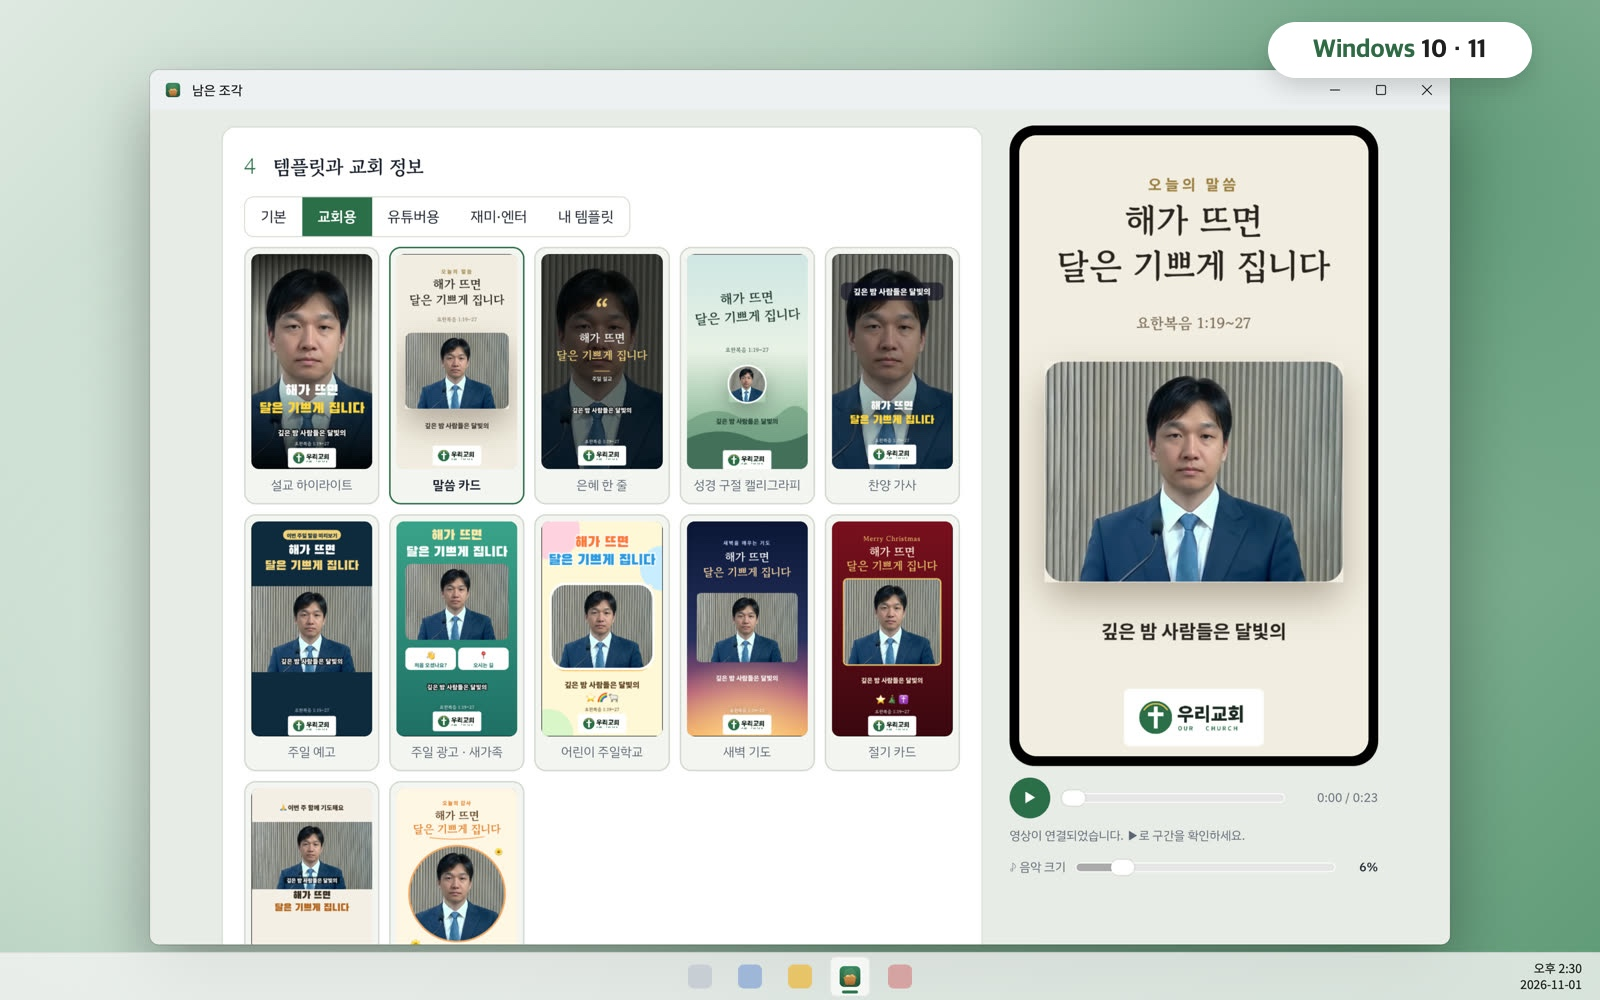
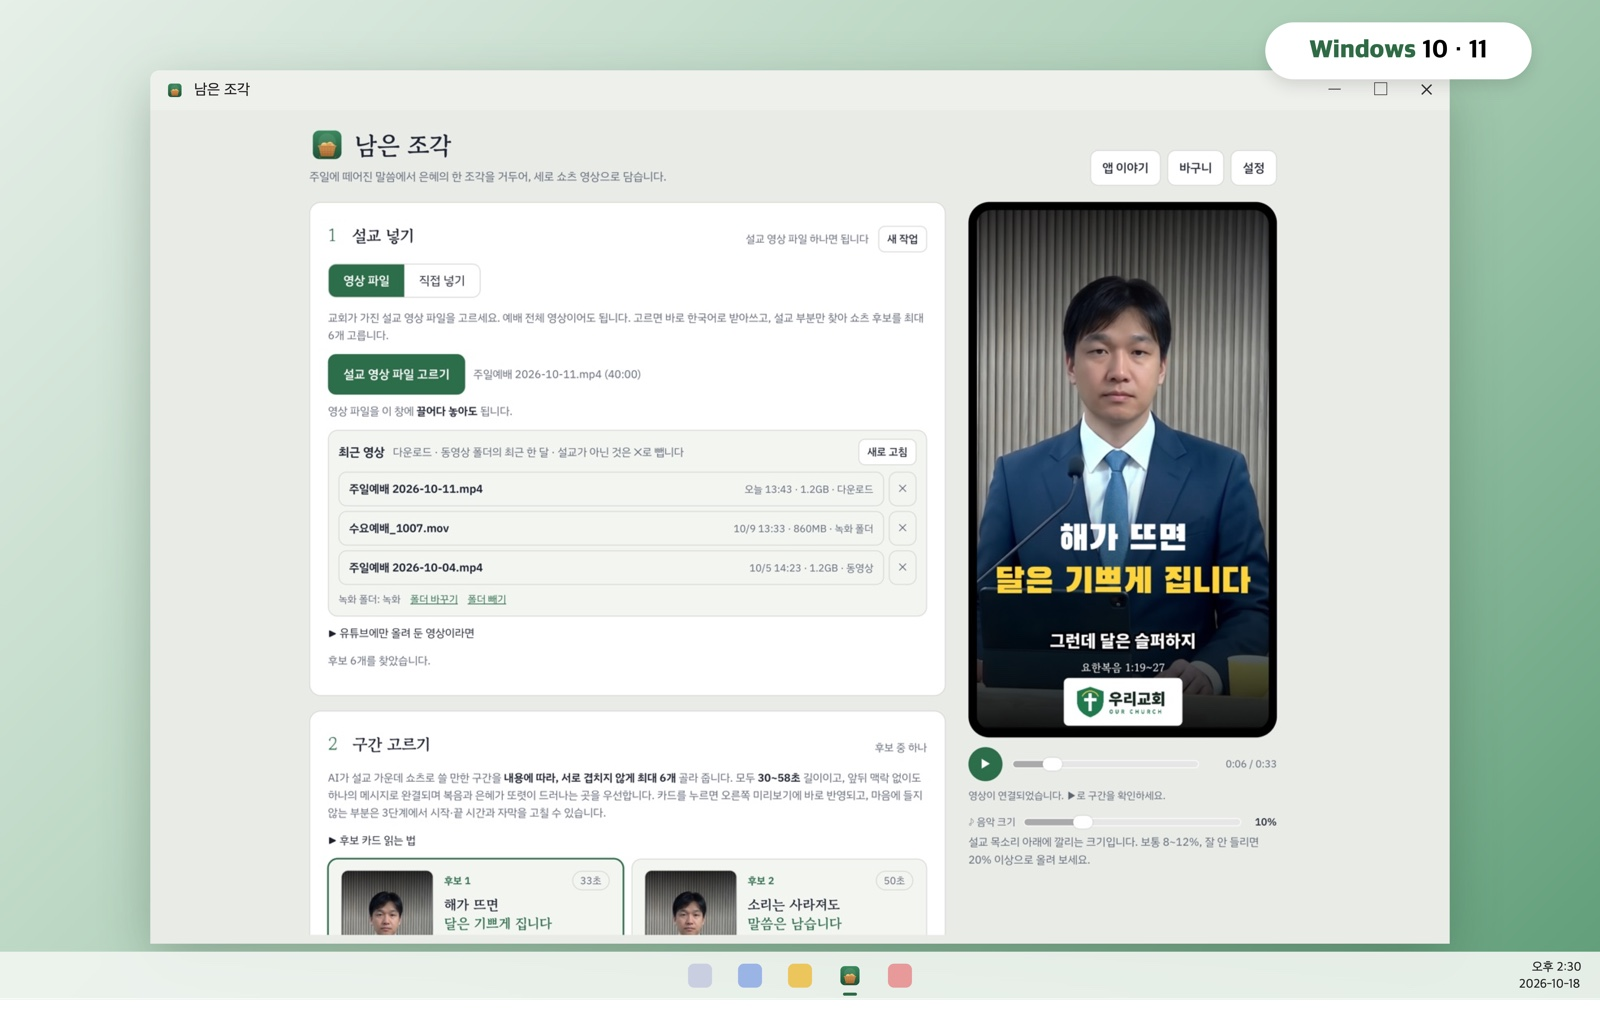
Windows 칸 그림을 지금 화면(영상 파일로 시작)으로

diff --git a/index.html b/index.html
@@ -9,7 +9,7 @@
 <link rel="preconnect" href="https://fonts.googleapis.com"><link rel="preconnect" href="https://fonts.gstatic.com" crossorigin>
 <link href="https://fonts.googleapis.com/css2?family=Gowun+Batang:wght@400;700&family=Noto+Sans+KR:wght@400;500;700;900&display=swap" rel="stylesheet">
 <link rel="stylesheet" href="site.css?v=202610181200">
-<script src="pay.js?v=202610182100" defer></script>
+<script src="pay.js?v=202610182130" defer></script>
 </head>
 <body>
 <nav class="nav"><div class="in">
@@ -177,7 +177,7 @@
       <div class="pbtn" style="max-width:340px"><a class="btn" data-pay="namun.win_trial">Windows용 내려받기<em class="newTag">출시</em><em class="soonTag">시험 중 · 곧 엽니다</em></a><a class="btn ghost winSoon" href="mailto:alma9777a@gmail.com?subject=%EB%82%A8%EC%9D%80%20%EC%A1%B0%EA%B0%81%20Windows%20%EC%B6%9C%EC%8B%9C%20%EC%95%8C%EB%A6%BC">열리면 알림 받기</a></div>
       <p class="wnote winSoon">‘열리면 알림 받기’로 메일을 보내 주시면 내려받기가 열릴 때 가장 먼저 알려 드립니다.</p><p class="wnote winOpen"><b>설치할 때 파란 창이 나오면</b> — ‘Windows의 PC 보호’라는 창이 나오면 <b>추가 정보</b>를 누른 다음 <b>실행</b>을 누르세요. 새로 나온 프로그램에 처음 한 번 나오는 안내입니다.</p>
     </div>
-    <div class="wimg"><img src="img/windows.jpg" data-win-src="img/windows_open.jpg" alt="Windows에서 실행한 남은 조각 화면" loading="lazy"><p class="wcap winSoon">출시 전 미리보기 화면입니다. 실제 화면은 달라질 수 있습니다.</p></div>
+    <div class="wimg"><img src="img/windows.jpg" data-win-src="img/windows_open.jpg?v=2" alt="Windows에서 실행한 남은 조각 화면" loading="lazy"><p class="wcap winSoon">출시 전 미리보기 화면입니다. 실제 화면은 달라질 수 있습니다.</p></div>
   </div>
 </div></section>
 
